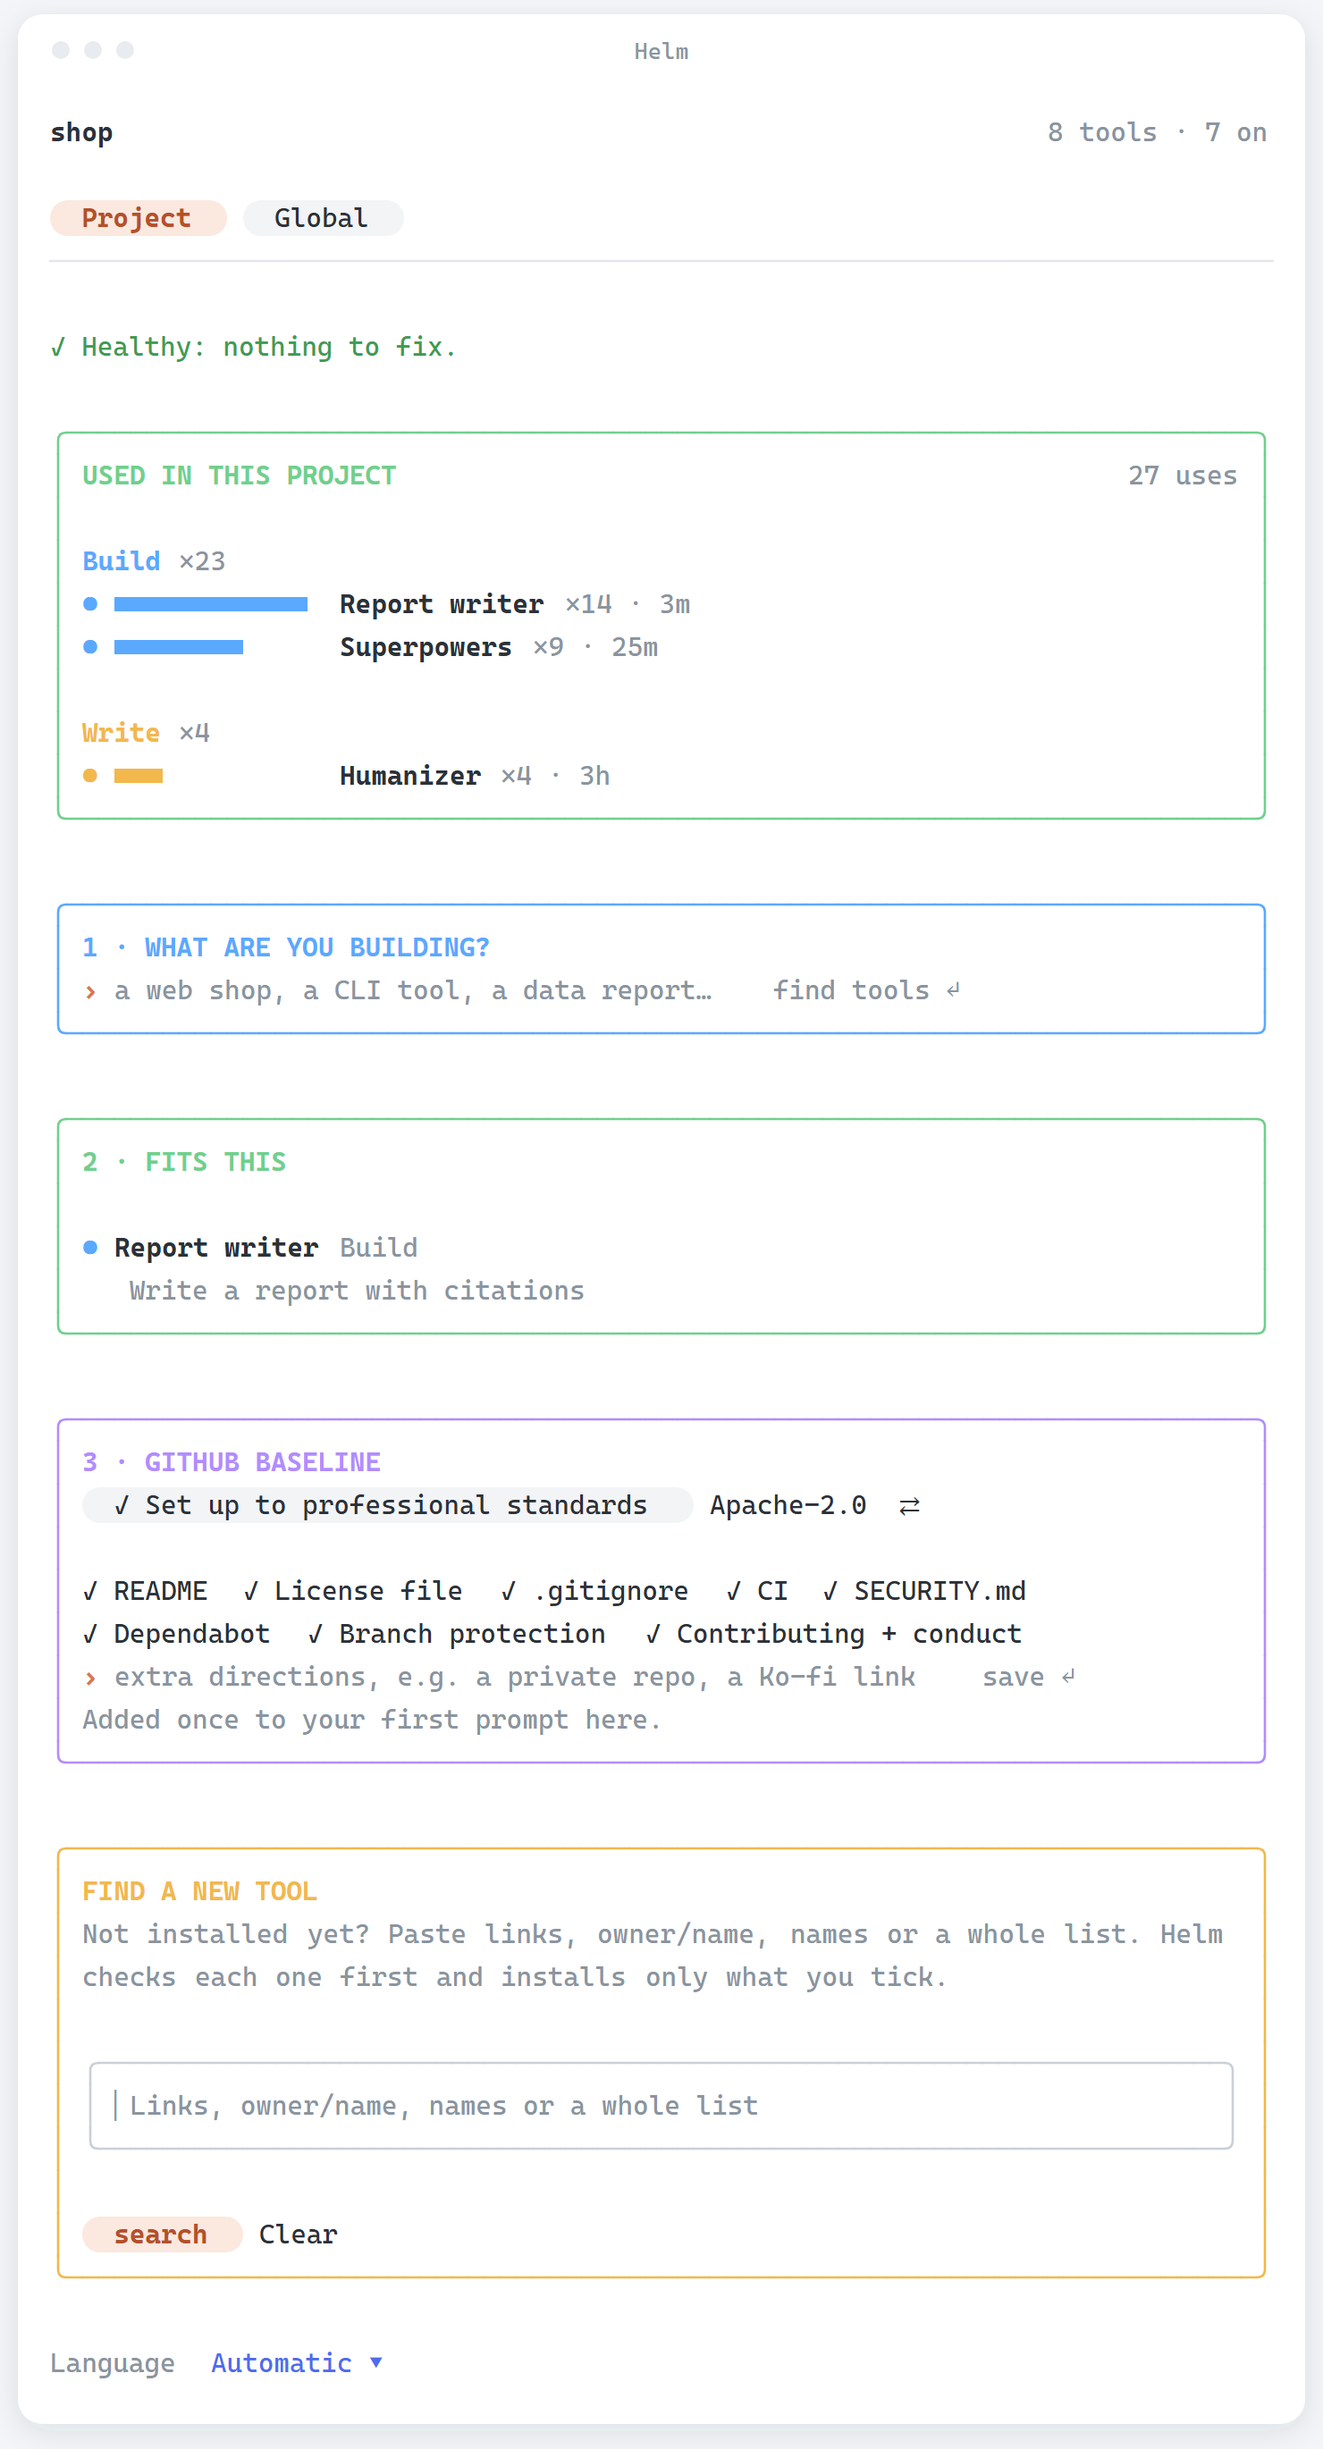
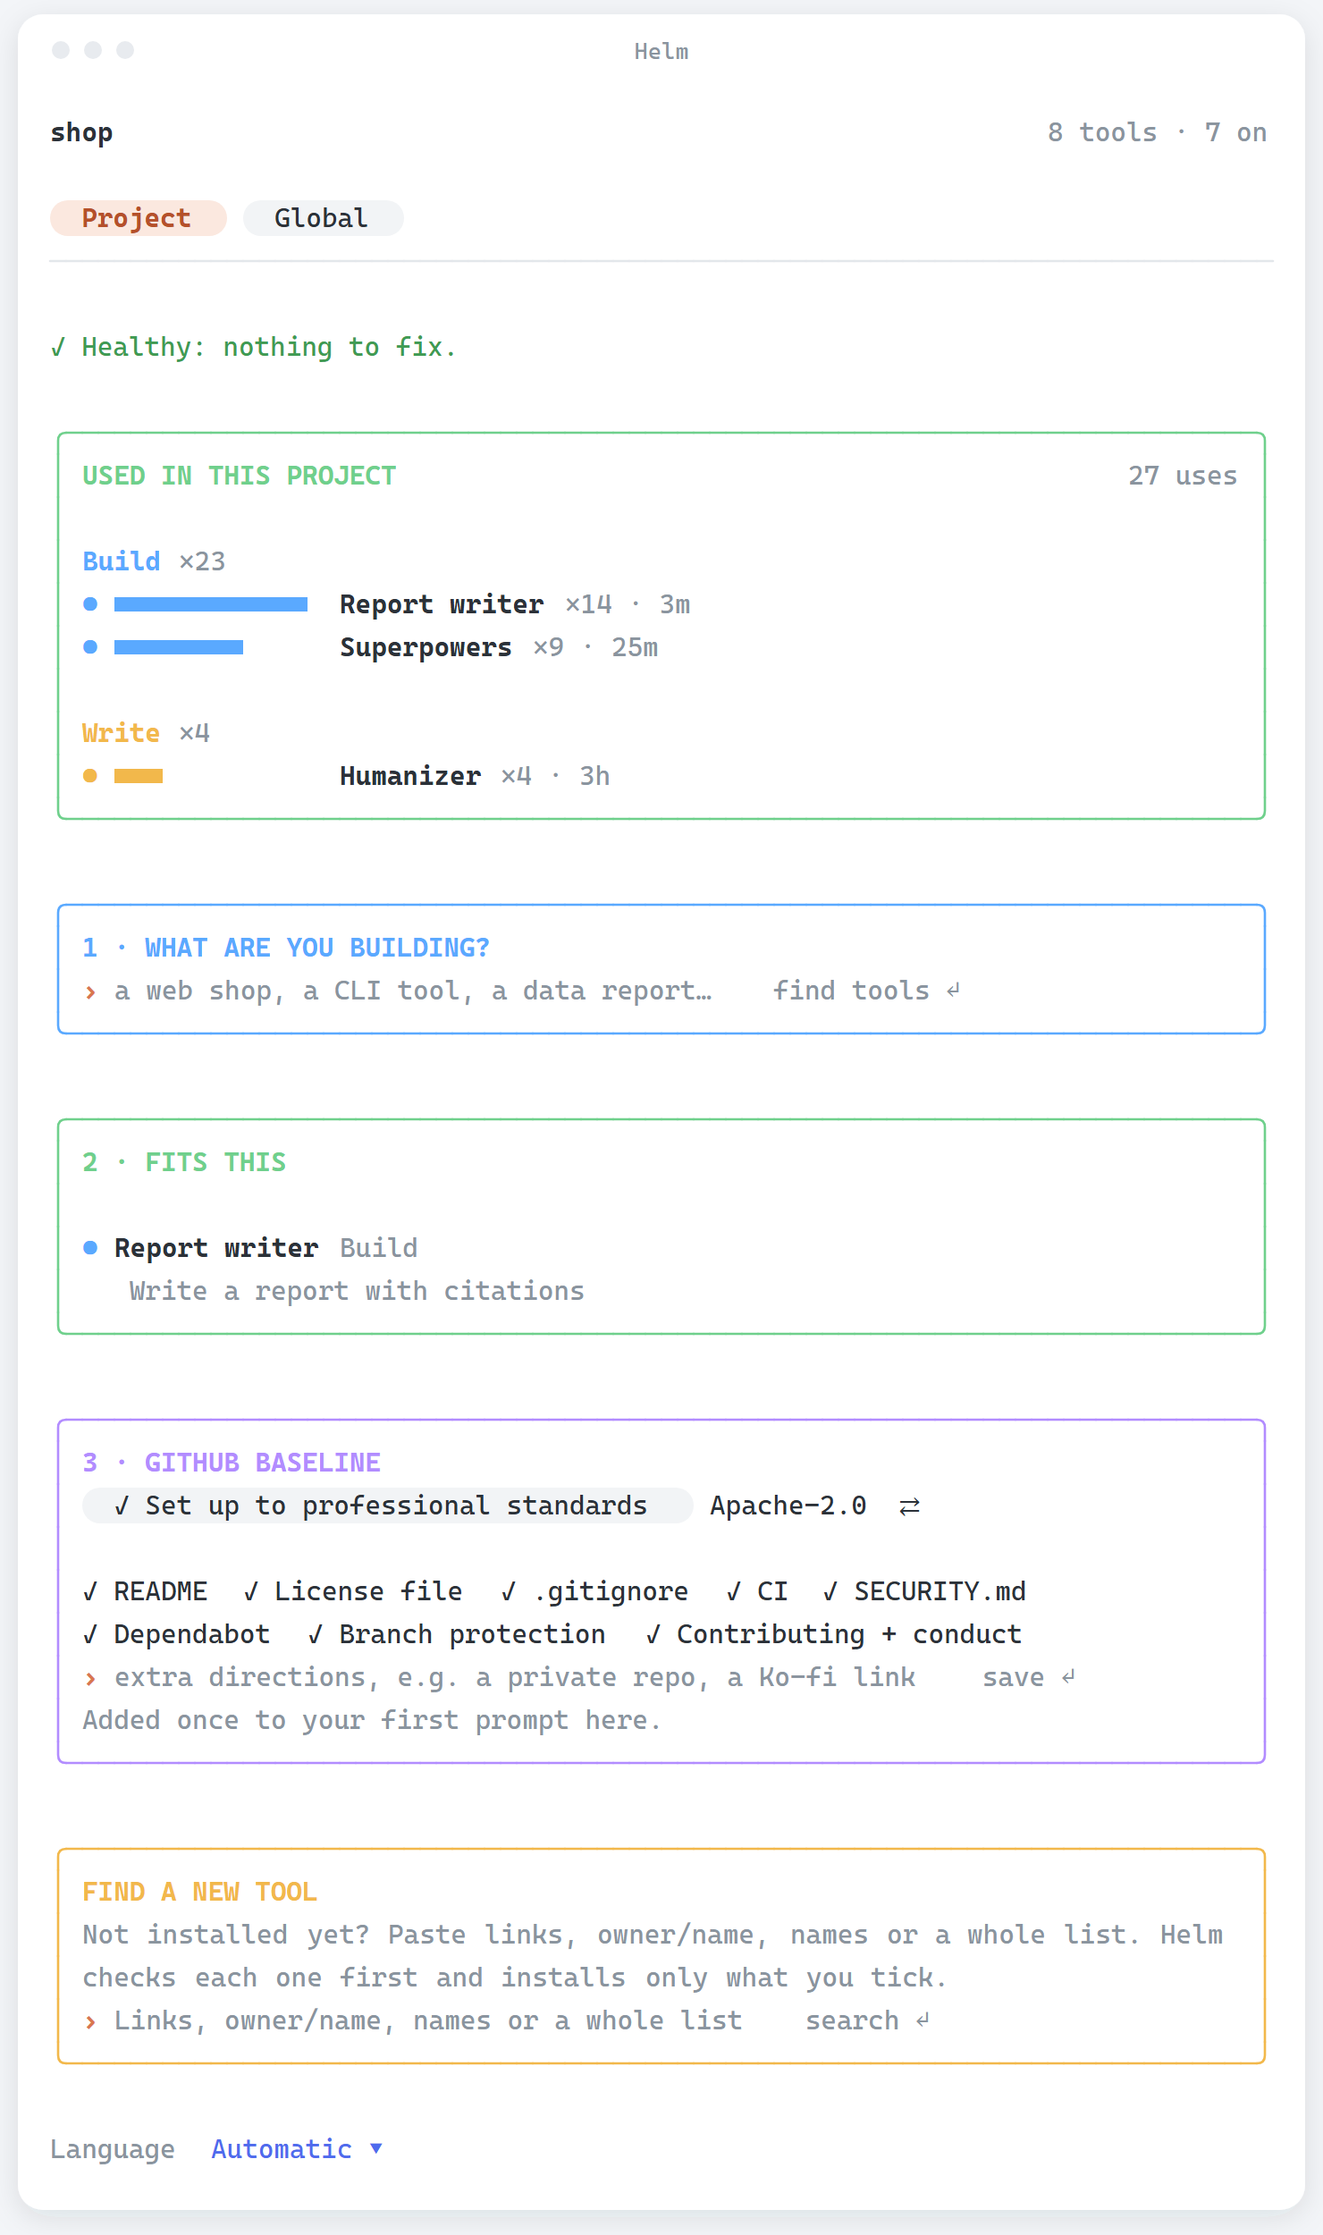
fix: the research box is the plain field again (native caret and paste)
The custom text area could not take a paste and moved the text when its caret blinked.

diff --git a/tests/batch.test.tsx b/tests/batch.test.tsx
@@ -29,8 +29,7 @@ test('a pasted list is checked line by line and only the ticked ones are install
   const w = world($, on, { run })
   await boot($, PROJECT)
   const ui = await $.ui.mount({ plugin: 'helm', surface: 'desktop', component: 'Pane', props: PANE_PROPS, requestId: 'helm' })
-  await ui.post({ text: ['Things to try:', '- https://github.com/demo/alpha', '- demo/gone', '- Caveman', 'and https://example.com/other'].join('\n') }, { in: 'research-editor' })
-  await ui.press({ key: 'research-go' })
+  await ui.input({ key: 'research', text: ['Things to try:', '- https://github.com/demo/alpha', '- demo/gone', '- Caveman', 'and https://example.com/other'].join('\n') })
   await new Promise(r => setTimeout(r, 200))
   const text = await textOf(ui)
   expect(text).toContain('found in your text')
@@ -52,33 +51,18 @@ test('one link still gives the single verdict card, not a list', async ($, on) =
   world($, on, { run })
   await boot($, PROJECT)
   const ui = await $.ui.mount({ plugin: 'helm', surface: 'desktop', component: 'Pane', props: PANE_PROPS, requestId: 'helm' })
-  await ui.post({ text: 'https://github.com/demo/alpha' }, { in: 'research-editor' })
-  await ui.press({ key: 'research-go' })
+  await ui.input({ key: 'research', text: 'https://github.com/demo/alpha' })
   await new Promise(r => setTimeout(r, 100))
   const text = await textOf(ui)
   expect(text).not.toContain('found in your text')
   expect(text).toContain('demo/alpha')
 })
 
-test('Ctrl+Enter inside the text area searches, and Clear empties the draft', async ($, on) => {
-  world($, on, { run })
-  await boot($, PROJECT)
-  const ui = await $.ui.mount({ plugin: 'helm', surface: 'desktop', component: 'Pane', props: PANE_PROPS, requestId: 'helm' })
-  await ui.post({ text: 'https://github.com/demo/alpha', submit: true }, { in: 'research-editor' })
-  await new Promise(r => setTimeout(r, 100))
-  expect(await textOf(ui)).toContain('demo/alpha')
-  await ui.press({ key: 'research-clear' })
-  await ui.press({ key: 'research-go' })
-  await new Promise(r => setTimeout(r, 50))
-  expect(await textOf(ui)).not.toContain('found in your text')
-})
-
 test('what is already installed is not looked up again, and a repository that is no skill is greyed, not red', async ($, on) => {
   const w = world($, on, { run })
   await boot($, PROJECT)
   const ui = await $.ui.mount({ plugin: 'helm', surface: 'desktop', component: 'Pane', props: PANE_PROPS, requestId: 'helm' })
-  await ui.post({ text: ['demo/tdd', 'demo/alpha', 'demo/bare'].join('\n') }, { in: 'research-editor' })
-  await ui.press({ key: 'research-go' })
+  await ui.input({ key: 'research', text: ['demo/tdd', 'demo/alpha', 'demo/bare'].join('\n') })
   await new Promise(r => setTimeout(r, 200))
   const text = await textOf(ui)
   expect(text).toContain('Already installed')
@@ -90,8 +74,7 @@ test('a repository with skills in subfolders is installed through a catalog Helm
   const w = world($, on, { run })
   await boot($, PROJECT)
   const ui = await $.ui.mount({ plugin: 'helm', surface: 'desktop', component: 'Pane', props: PANE_PROPS, requestId: 'helm' })
-  await ui.post({ text: 'demo/coll\ndemo/alpha' }, { in: 'research-editor' })
-  await ui.press({ key: 'research-go' })
+  await ui.input({ key: 'research', text: 'demo/coll\ndemo/alpha' })
   await new Promise(r => setTimeout(r, 200))
   await ui.press({ key: 'b-install' })
   await new Promise(r => setTimeout(r, 200))

diff --git a/tests/security.test.tsx b/tests/security.test.tsx
@@ -73,8 +73,7 @@ describe('the scanner in the panel', () => {
     const w = world($, on, { run: github })
     await boot($, PROJECT)
     const ui = await pane($)
-    await ui.post({ text: 'demo/tool' }, { in: 'research-editor' })
-    await ui.press({ key: 'research-go' })
+    await ui.input({ key: 'research', text: 'demo/tool' })
     expect(await textOf(ui)).toContain('Looks fine')
     expect(w.ran.some(a => a[0] === 'skillspector' && a[2] === 'https://github.com/demo/tool')).toBe(true)
     expect(await ui.find({ key: 'install' })).toBeDefined()
@@ -84,8 +83,7 @@ describe('the scanner in the panel', () => {
     const w = world($, on, { run: github, scanner: 'missing' })
     await boot($, PROJECT)
     const ui = await pane($)
-    await ui.post({ text: 'demo/tool' }, { in: 'research-editor' })
-    await ui.press({ key: 'research-go' })
+    await ui.input({ key: 'research', text: 'demo/tool' })
     expect(await textOf(ui)).toContain('Check before you install')
     expect(await textOf(ui)).toContain('Not scanned')
     await ui.press({ key: 'scanner-install-found' })
@@ -99,8 +97,7 @@ describe('the scanner in the panel', () => {
     })
     await boot($, PROJECT)
     const ui = await pane($)
-    await ui.post({ text: 'demo/tool' }, { in: 'research-editor' })
-    await ui.press({ key: 'research-go' })
+    await ui.input({ key: 'research', text: 'demo/tool' })
     expect(await textOf(ui)).toContain('Do not install')
     expect(await textOf(ui)).toContain('External Script Fetching')
     expect(await ui.find({ key: 'install' })).toBeUndefined()
@@ -114,8 +111,7 @@ describe('the scanner in the panel', () => {
     world($, on, { run: github, scanner: () => report('DO_NOT_INSTALL', 90, [{ severity: 'HIGH', pattern: 'Credential Access', file: 'tests/a.ts' }]) })
     await boot($, PROJECT)
     const ui = await pane($)
-    await ui.post({ text: 'demo/tool' }, { in: 'research-editor' })
-    await ui.press({ key: 'research-go' })
+    await ui.input({ key: 'research', text: 'demo/tool' })
     expect(await textOf(ui)).toContain('only in tests or docs')
     expect(await ui.find({ key: 'install' })).toBeDefined()
   })
@@ -182,5 +178,19 @@ describe('what counts as flagged', () => {
     const scans = { 'skill:a': mk(1, 0), 'skill:b': mk(0, 1), 'skill:c': mk(0, 0, 'SAFE'), 'skill:d': mk(0, 4) }
     expect(flagged(scans).map(([k]) => k).sort()).toEqual(['skill:a', 'skill:d'])
     expect(watched(scans)).toBe(1)
+  })
+})
+
+describe('what counts toward a verdict', () => {
+  test('findings in CI config, evaluation scripts and install notes do not make a tool risky', () => {
+    const issue = (severity: string, file: string) => ({ severity, pattern: 'p', location: { file, start_line: 1 } })
+    const scan = parseScan(
+      JSON.stringify({
+        risk_assessment: { score: 100, severity: 'CRITICAL', recommendation: 'DO_NOT_INSTALL' },
+        issues: [...['.github/workflows/a.yml', 'INSTALL.md', 'evals/run.py', '.opencode/x.ts', 'README.md'].map(f => issue('HIGH', f)), issue('MEDIUM', 'scripts/run.py')],
+      }),
+    )!
+    expect(scan.flagged).toBe(1)
+    expect(blocks(scan)).toBe(false)
   })
 })

diff --git a/hooks/register.tsx b/hooks/register.tsx
@@ -22,9 +22,6 @@ import { Panel, ago } from '../src/views/panel'
 
 const PANE = 'helm'
 let isTerminal = false
-// What the text area of the research box holds (it posts every change), and how often "Clear" was pressed.
-let draft = ''
-let cleared = 0
 let fading = false
 
 const core = atom(
@@ -885,15 +882,6 @@ export const register: Register = on => {
     return next({ ...e, text: `${e.text}\n\n${text}` })
   })
 
-  // The text area posts its whole text on every change; Ctrl+Enter inside it searches.
-  on('ui.message', async ($, e, next) => {
-    if (e.element !== 'research-editor') return next(e)
-    const d = e.data as { text?: unknown; submit?: unknown } | null
-    if (typeof d?.text === 'string') draft = d.text.slice(0, 20_000)
-    if (d?.submit === true) void research($, draft)
-    return {}
-  })
-
   on('command.run', { command: 'helm' }, async $ => {
     await $.ui.open({ id: PANE, title: 'Helm', focus: true, closeOnEscape: true })
     return { text: 'Helm opened.' }
@@ -947,12 +935,6 @@ export const register: Register = on => {
       item: (id: string) => void setSetup($, toggleItem(id)),
       details: (text: string) => void setSetup($, s => ({ ...s, details: text })),
       research: (text: string) => void research($, text),
-      search: () => void research($, draft),
-      clearDraft: () => {
-        draft = ''
-        cleared += 1
-        void update($, nav, s => ({ ...s }))
-      },
       pickRow: (i: number) => void update($, core, s => ({ ...s, batch: s.batch ? s.batch.map((row, j) => (j === i ? { ...row, pick: !row.pick } : row)) : s.batch })),
       installBatch: (scope: 'user' | 'local') => void installBatch($, scope),
       clearBatch: () => void update($, core, s => ({ ...s, batch: null, message: null })),
@@ -969,10 +951,7 @@ export const register: Register = on => {
     }
     try {
       isTerminal = terminal
-      // The module path has to be a literal in this file; surfaces without a `Client` keep the one-line field.
-      const Client = ui.Client
-      const editor = Client ? <Client key="research-editor" module="./editor.tsx" width="100%" props={{ placeholder: t(c.lang, 'find.placeholder'), start: draft, reset: cleared }} /> : null
-      return Panel({ ui, c, n, github, act, terminal, width, now, lang: c.lang, editor })
+      return Panel({ ui, c, n, github, act, terminal, width, now, lang: c.lang })
     } catch (err) {
       // A panel that cannot draw says why, instead of the engine's empty "nothing to show".
       return (

diff --git a/src/views/panel.tsx b/src/views/panel.tsx
@@ -27,8 +27,6 @@ export type Act = {
   item: (id: string) => void
   details: (text: string) => void
   research: (text: string) => void
-  search: () => void
-  clearDraft: () => void
   pickRow: (i: number) => void
   installBatch: (scope: 'user' | 'local') => void
   clearBatch: () => void
@@ -44,7 +42,7 @@ export type Act = {
   anyway: (scope: 'user' | 'local') => void
 }
 
-type Props = { ui: any; c: Core; n: Nav; github: boolean; act: Act; terminal: boolean; width: number; now: number; lang: Lang; editor: any }
+type Props = { ui: any; c: Core; n: Nav; github: boolean; act: Act; terminal: boolean; width: number; now: number; lang: Lang }
 
 const LEVEL = { ok: 'success', caution: 'warning', no: 'error' } as const
 const WHY: Record<string, Key> = {
@@ -73,7 +71,7 @@ export function ago(ms: number): string {
   return `${Math.round(s / 86400)}d`
 }
 
-export function Panel({ ui, c, n, github, act, terminal, width, now, lang, editor }: Props) {
+export function Panel({ ui, c, n, github, act, terminal, width, now, lang }: Props) {
   const { Box, Button, Input, Select, Text } = ui
   const T = (key: Key, ...vars: (string | number)[]) => t(lang, key, ...vars)
   const index = c.index ?? []
@@ -133,17 +131,7 @@ export function Panel({ ui, c, n, github, act, terminal, width, now, lang, edito
     <Box flexDirection="column">
       {title(T('find.title'), '#f2b84b')}
       <Text dimColor>{T('find.about')}</Text>
-      {editor ? (
-        <Box flexDirection="column" marginTop={1}>
-          {editor}
-          <Box marginTop={1} columnGap={1}>
-            <Button key="research-go" label={T('find.submit')} variant="primary" onPress={act.search} />
-            <Button key="research-clear" label={T('batch.clear')} plain onPress={act.clearDraft} />
-          </Box>
-        </Box>
-      ) : (
-        <Input key="research" placeholder={T('find.placeholder')} submitLabel={T('find.submit')} onSubmit={act.research} />
-      )}
+      <Input key="research" placeholder={T('find.placeholder')} submitLabel={T('find.submit')} onSubmit={act.research} />
       {c.hits && (
         <Box flexDirection="column" marginTop={1}>
           {c.hits.map(h => (

diff --git a/scripts/shots/shots.scene.tsx b/scripts/shots/shots.scene.tsx
@@ -86,10 +86,7 @@ for (const shot of SHOTS) {
     if (shot.sub) await ui.press({ key: shot.sub })
     if (shot.ask) await ui.input({ key: 'ask', text: shot.ask })
     if (shot.github) await ui.press({ key: 'gh' })
-    if (shot.research) {
-      await ui.post({ text: shot.research }, { in: 'research-editor' })
-      await ui.press({ key: 'research-go' })
-    }
+    if (shot.research) await ui.input({ key: 'research', text: shot.research })
     if (shot.tidy) await ui.press({ key: 'check' })
     if (shot.scan) await ui.press({ key: 'scan' })
     for (const key of shot.fold ?? []) await ui.press({ key })

diff --git a/tests/mod.test.tsx b/tests/mod.test.tsx
@@ -70,8 +70,7 @@ test('the research box reads a repository and offers an install only after a ver
   })
   await boot($, PROJECT)
   const ui = await pane($)
-  await ui.post({ text: 'https://github.com/demo/tool' }, { in: 'research-editor' })
-  await ui.press({ key: 'research-go' })
+  await ui.input({ key: 'research', text: 'https://github.com/demo/tool' })
   expect(await textOf(ui)).toContain('Looks fine')
   expect(w.ran.some(a => a[1] === 'plugin' && a[2] === 'install')).toBe(false)
   await ui.press({ key: 'install' })

diff --git a/tests/keys.test.tsx b/tests/keys.test.tsx
@@ -39,8 +39,7 @@ for (const surface of ['terminal', 'desktop']) {
     await ui.press({ key: 'gh' })
     await ui.input({ key: 'ask', text: 'a report with citations and a website sitemap' })
     await check('setup with picks and GitHub')
-    await ui.post({ text: 'demo/tool' }, { in: 'research-editor' })
-    await ui.press({ key: 'research-go' })
+    await ui.input({ key: 'research', text: 'demo/tool' })
     await check('discover with a verdict')
     await ui.press({ key: 'global' })
     await check('global')

diff --git a/CHANGELOG.md b/CHANGELOG.md
@@ -6,6 +6,12 @@ All notable changes are listed here. The format follows
 
 ## [Unreleased]
 
+## [0.12.3] - 2026-10-06
+
+### Changed
+
+- **The research box is the plain field again**, like the others in the panel: native caret and native paste. The custom text area of 0.12.1 could not take a paste and moved the text when its caret blinked.
+
 ## [0.12.2] - 2026-10-06
 
 ### Added
@@ -14,7 +20,6 @@ All notable changes are listed here. The format follows
 
 ### Changed
 
-- **The caret in the text area blinks**, so it is clear where typing goes.
 - **A copy switched off beside an active twin of the same name is listed once**, in the counts and in the tool list.
 
 ### Removed
@@ -268,7 +273,8 @@ First release.
   items (README, CI, `SECURITY.md`, Dependabot, branch protection and more); a short brief rides once on
   the first prompt of the project.
 
-[Unreleased]: https://github.com/rlpb/helm/compare/v0.12.2...HEAD
+[Unreleased]: https://github.com/rlpb/helm/compare/v0.12.3...HEAD
+[0.12.3]: https://github.com/rlpb/helm/compare/v0.12.2...v0.12.3
 [0.12.2]: https://github.com/rlpb/helm/compare/v0.12.1...v0.12.2
 [0.12.1]: https://github.com/rlpb/helm/compare/v0.12.0...v0.12.1
 [0.12.0]: https://github.com/rlpb/helm/compare/v0.11.0...v0.12.0

diff --git a/SECURITY.md b/SECURITY.md
@@ -39,7 +39,7 @@ signed with a short-lived certificate GitHub issues to the workflow run that
 made it. It names the repository, the workflow and the commit:
 
 ```bash
-gh attestation verify helm-0.12.2.zip --repo rlpb/helm
+gh attestation verify helm-0.12.3.zip --repo rlpb/helm
 ```
 
 The command exits with an error for a file this repository's release workflow

diff --git a/README.it.md b/README.it.md
@@ -59,7 +59,7 @@ Le release sono costruite dal workflow di release a partire da un commit con tag
 
 ```bash
 sha256sum -c SHA256SUMS.txt
-gh attestation verify helm-0.12.2.zip --repo rlpb/helm
+gh attestation verify helm-0.12.3.zip --repo rlpb/helm
 ```
 
 ## Supporto

diff --git a/README.md b/README.md
@@ -59,7 +59,7 @@ Releases are built by the release workflow from a tagged commit, with a SHA-256 
 
 ```bash
 sha256sum -c SHA256SUMS.txt
-gh attestation verify helm-0.12.2.zip --repo rlpb/helm
+gh attestation verify helm-0.12.3.zip --repo rlpb/helm
 ```
 
 ## Support
